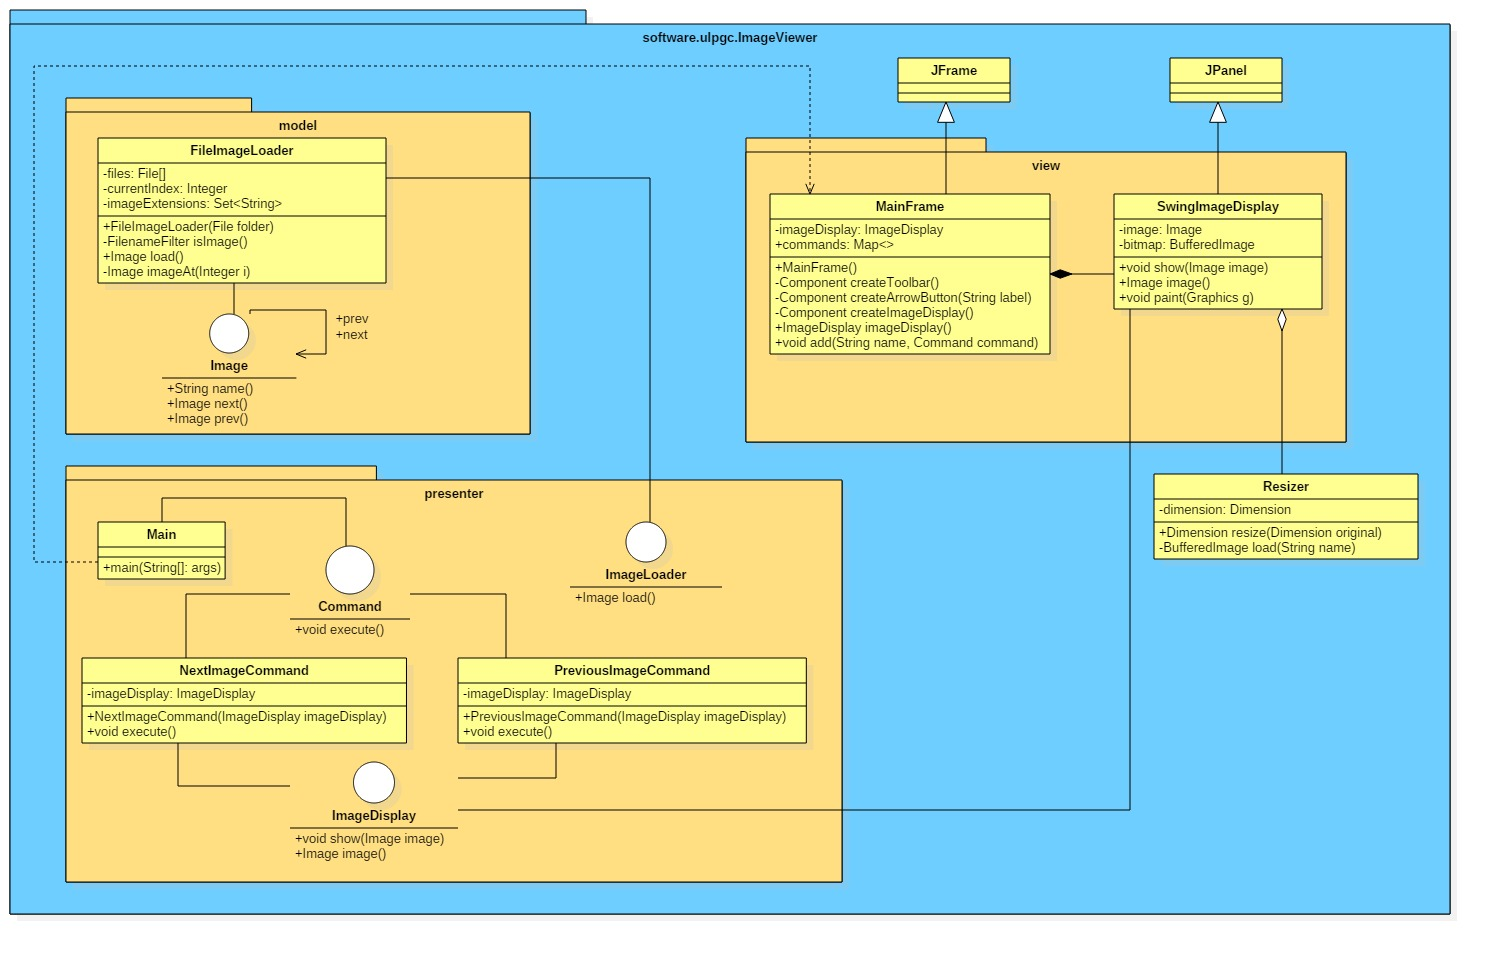
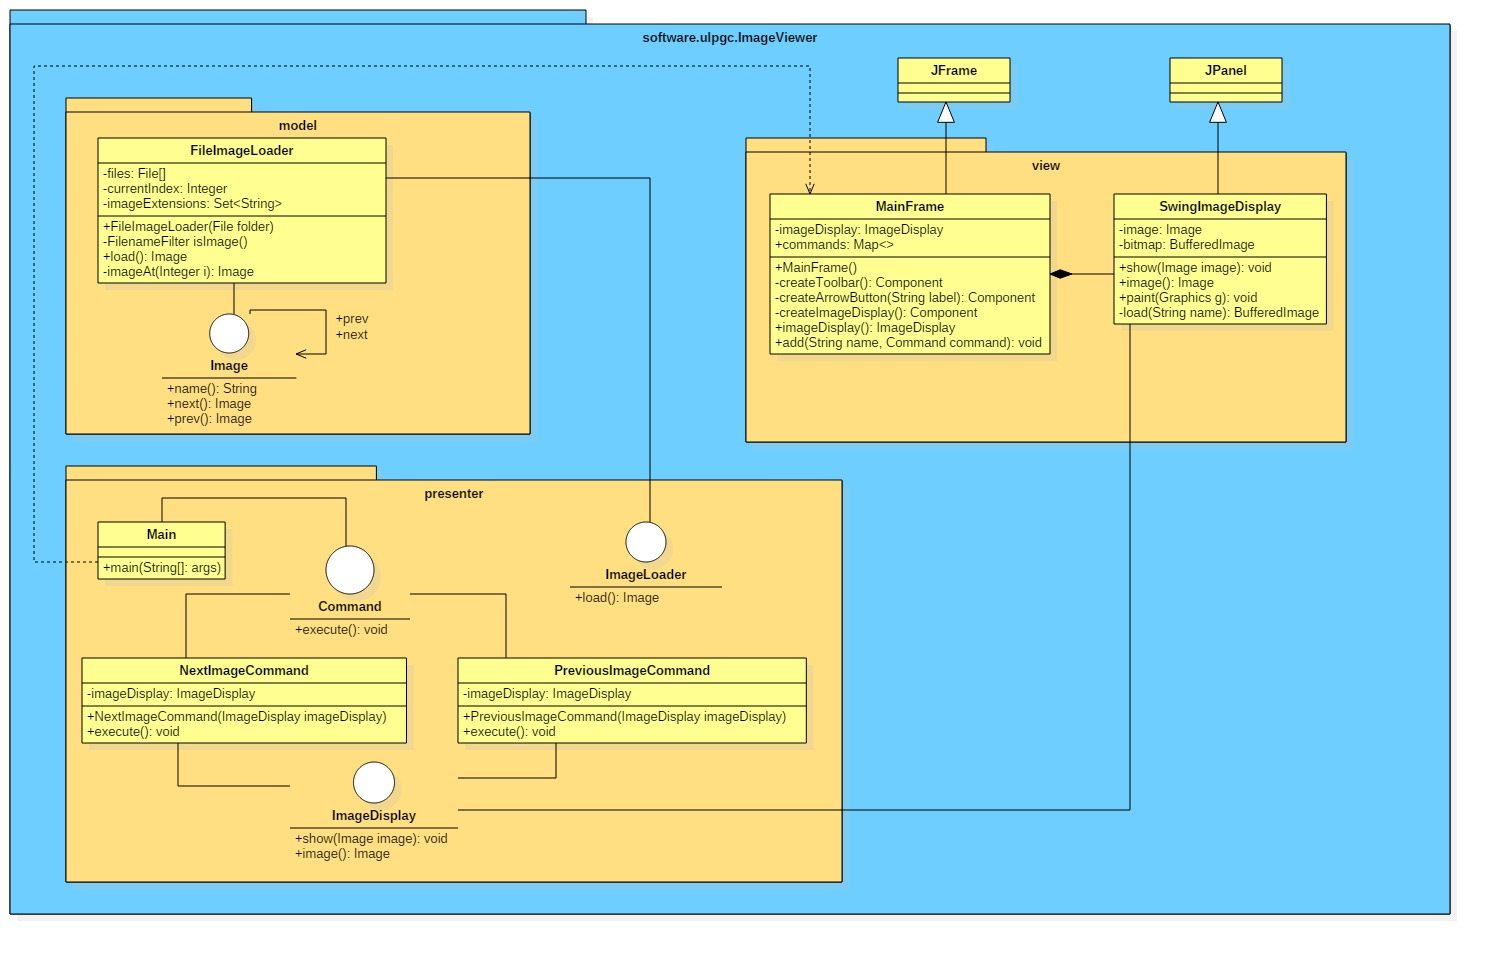
Image Viewer - Version 3

diff --git a/src/main/java/software/ulpgc/ImageViewer/view/SwingImageDisplay.java b/src/main/java/software/ulpgc/ImageViewer/view/SwingImageDisplay.java
@@ -3,12 +3,12 @@ package software.ulpgc.ImageViewer.view;
 import software.ulpgc.ImageViewer.presenter.ImageDisplay;
 import software.ulpgc.ImageViewer.model.Image;
 
-import javax.imageio.ImageIO;
-import javax.swing.*;
 import java.awt.*;
 import java.awt.image.BufferedImage;
 import java.io.File;
 import java.io.IOException;
+import javax.imageio.ImageIO;
+import javax.swing.JPanel;
 
 public class SwingImageDisplay extends JPanel implements ImageDisplay {
     private Image image;
@@ -32,43 +32,20 @@ public class SwingImageDisplay extends JPanel implements ImageDisplay {
         g.fillRect(0, 0, this.getWidth(), this.getHeight());
 
         if (bitmap != null) {
-            Resizer resizer = new Resizer(new Dimension(this.getWidth(), this.getHeight()));
-            Dimension resized = resizer.resize(new Dimension(bitmap.getWidth(), bitmap.getHeight()));
+            Dimension panelSize = getSize();
 
-            int x = (this.getWidth() - resized.width) / 2;
-            int y = (this.getHeight() - resized.height) / 2;
+            double widthRatio = (double) panelSize.width / bitmap.getWidth();
+            double heightRatio = (double) panelSize.height / bitmap.getHeight();
 
-            g.drawImage(bitmap, x, y, resized.width, resized.height, null);
-        }
-    }
+            double scaleFactor = Math.max(widthRatio, heightRatio);
 
-    public static class Resizer {
-        private final Dimension dimension;
+            int newWidth = (int) (bitmap.getWidth() * scaleFactor);
+            int newHeight = (int) (bitmap.getHeight() * scaleFactor);
 
-        public Resizer(Dimension dimension) {
-            this.dimension = dimension;
-        }
+            int x = (panelSize.width - newWidth) / 2;
+            int y = (panelSize.height - newHeight) / 2;
 
-        public Dimension resize(Dimension original) {
-            int originalWidth = original.width;
-            int originalHeight = original.height;
-            int maxWidth = dimension.width;
-            int maxHeight = dimension.height;
-
-            int newWidth = originalWidth;
-            int newHeight = originalHeight;
-
-            if (originalWidth > maxWidth) {
-                newWidth = maxWidth;
-                newHeight = (newWidth * originalHeight) / originalWidth;
-            }
-
-            if (newHeight > maxHeight) {
-                newHeight = maxHeight;
-                newWidth = (newHeight * originalWidth) / originalHeight;
-            }
-
-            return new Dimension(newWidth, newHeight);
+            g.drawImage(bitmap, x, y, newWidth, newHeight, null);
         }
     }
 
@@ -79,5 +56,4 @@ public class SwingImageDisplay extends JPanel implements ImageDisplay {
             throw new RuntimeException(e);
         }
     }
-
 }

diff --git a/src/main/java/software/ulpgc/ImageViewer/view/MainFrame.java b/src/main/java/software/ulpgc/ImageViewer/view/MainFrame.java
@@ -5,6 +5,8 @@ import software.ulpgc.ImageViewer.presenter.ImageDisplay;
 
 import javax.swing.*;
 import java.awt.*;
+import java.awt.event.MouseAdapter;
+import java.awt.event.MouseEvent;
 import java.util.HashMap;
 import java.util.Map;
 
@@ -21,18 +23,60 @@ public class MainFrame extends JFrame {
         setLayout(new BorderLayout());
         setExtendedState(JFrame.MAXIMIZED_BOTH);
         add(createImageDisplay());
-        add(createToolbar(), BorderLayout.SOUTH);
+        add(createLeftToolbar(), BorderLayout.WEST);
+        add(createRightToolbar(), BorderLayout.EAST);
+
+        double velocity = 0.4;
+
+        addMouseMotionListener(new MouseAdapter() {
+            private int lastMousePosition;
+
+            @Override
+            public void mousePressed(MouseEvent e) {
+                lastMousePosition = e.getX();
+            }
+
+            @Override
+            public void mouseDragged(MouseEvent e) {
+                int current = e.getX();
+                int movement = (int) ((current-lastMousePosition) * velocity);
+
+                if (movement > 0) { commands.get(">").execute(); }
+                else if (movement < 0) { commands.get("<").execute(); }
+
+                lastMousePosition = current;
+            }
+        });
     }
 
-    private Component createToolbar() {
+    private Component createLeftToolbar() {
         JPanel panel = new JPanel();
-        panel.add(createArrowButton("◄"));
-        panel.add(createArrowButton("►"));
+        panel.setBackground(Color.BLACK);
+        panel.setLayout(new BoxLayout(panel, BoxLayout.Y_AXIS));
+        Box vertical = Box.createVerticalBox();
+        vertical.add(Box.createVerticalGlue());
+        vertical.add(createArrowButton("◄"));
+        vertical.add(Box.createVerticalGlue());
+        panel.add(vertical);
+        return panel;
+    }
+
+    private Component createRightToolbar() {
+        JPanel panel = new JPanel();
+        panel.setBackground(Color.BLACK);
+        panel.setLayout(new BoxLayout(panel, BoxLayout.Y_AXIS));
+        Box vertical = Box.createVerticalBox();
+        vertical.add(Box.createVerticalGlue());
+        vertical.add(createArrowButton("►"));
+        vertical.add(Box.createVerticalGlue());
+        panel.add(vertical);
         return panel;
     }
 
     private Component createArrowButton(String label) {
         JButton button = new JButton(label);
+        button.setBackground(Color.WHITE);
+        button.setForeground(Color.BLACK);
         button.setFont(new Font("Arial", Font.PLAIN, 18));
         button.addActionListener(e -> {
             if ("◄".equals(label)) { commands.get("<").execute(); }
